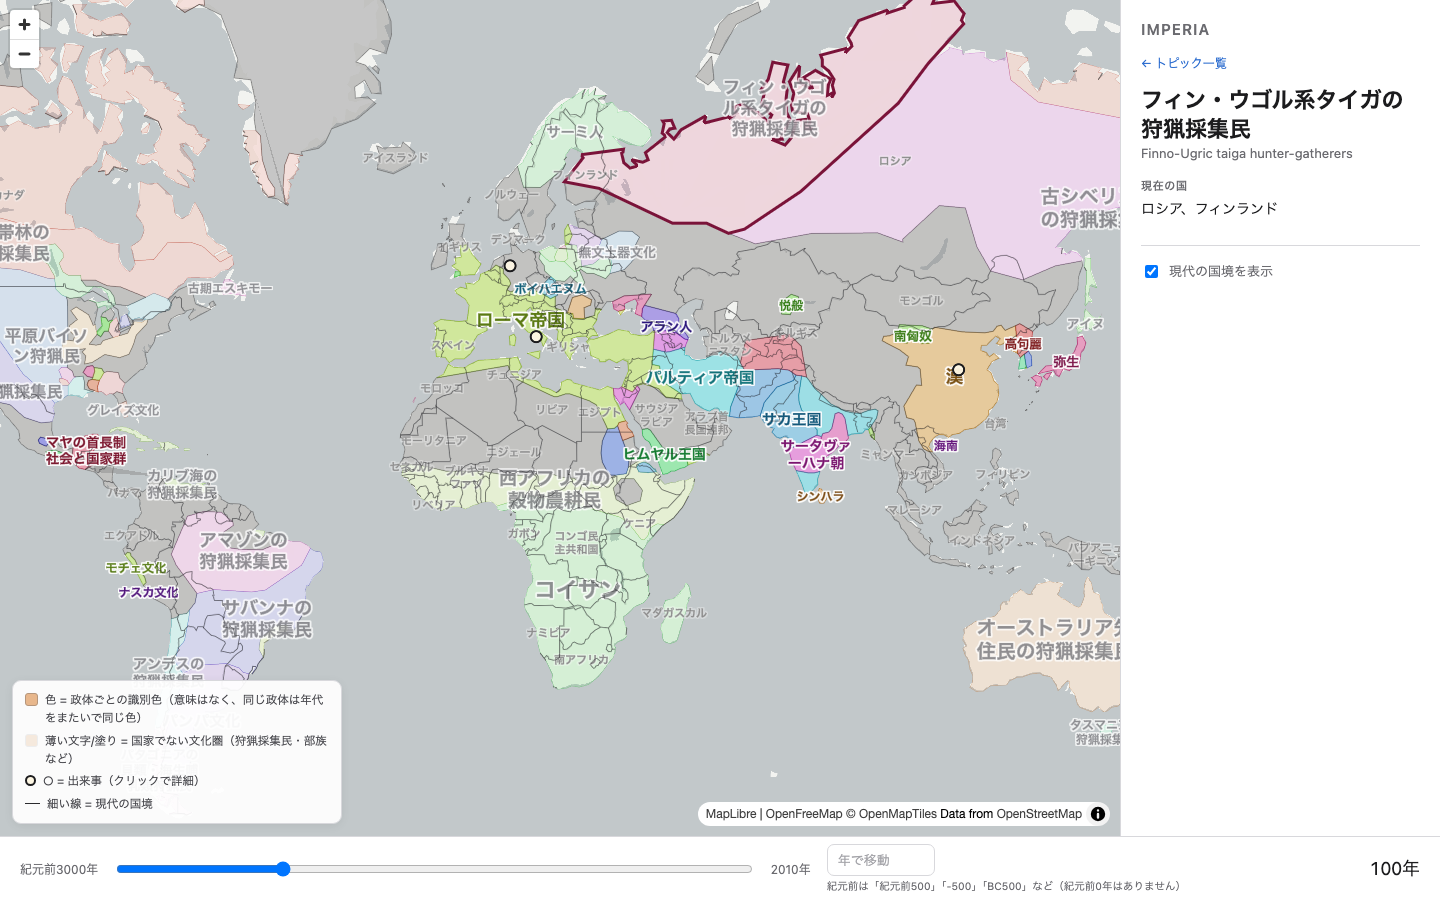
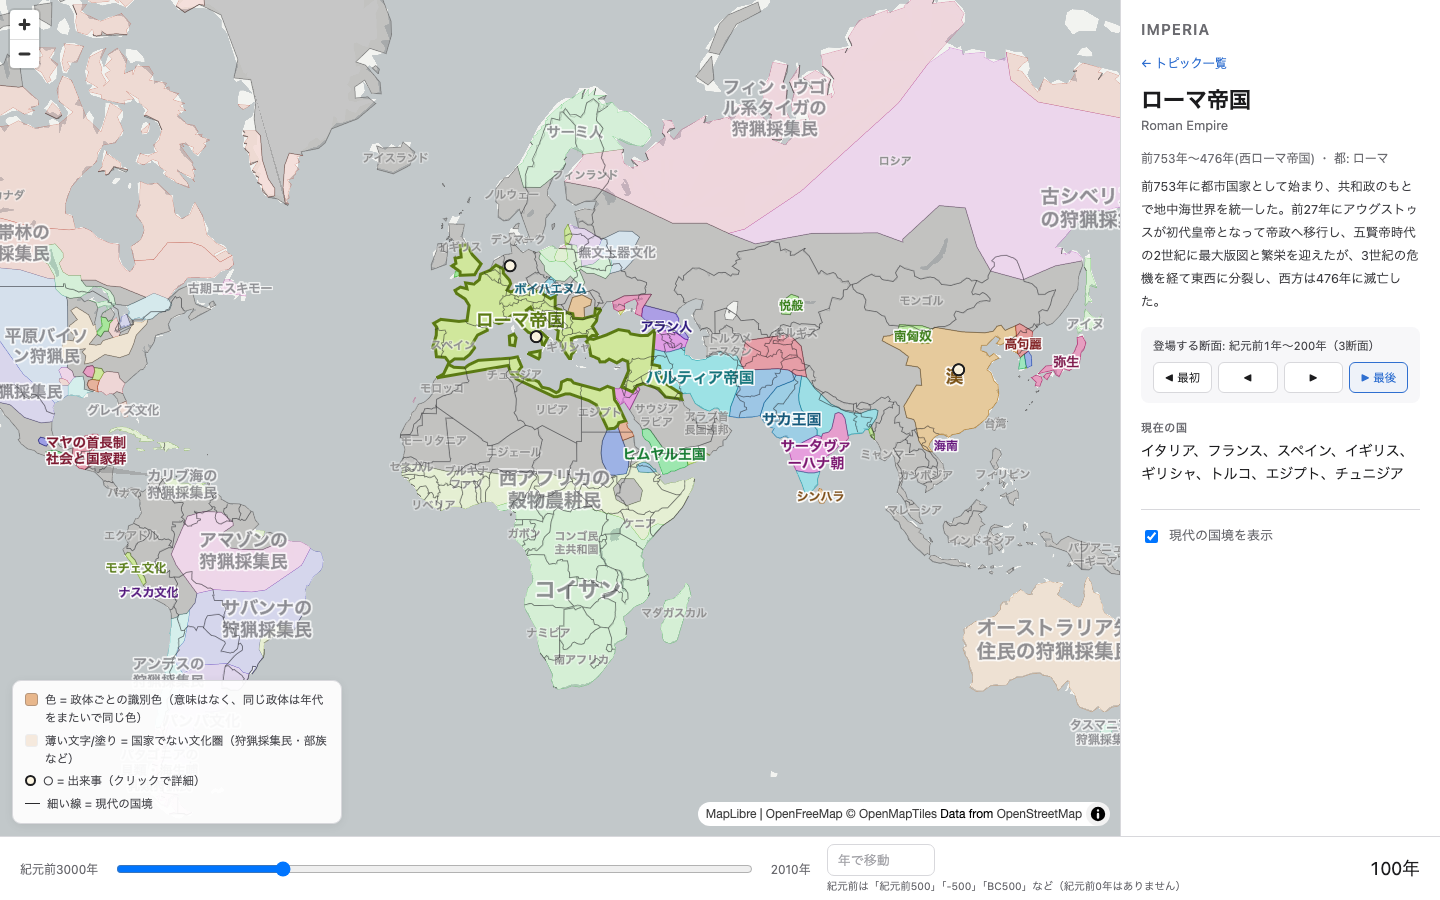
test: cover overviews, polity histories and era jumps
22 new node:test cases: overview coverage and length across all 48 eras,
single-paragraph Japanese with no English words, polity-info shape and
coverage of the majors, name-eras ordering and agreement with the era
files, and the era-jump model at both ends, from an absent era, and for
single-era polities. Screenshot assertions cover the overview sitting
above the topic list, and the Roman Empire panel's period, summary and
jump controls carrying the selection across an era change.

Fixes a real bug in the anachronism test's own regex, which is why it
never fired: /(?<!前)(\d{3,4})年/ matched "000" inside 「紀元前3000年」 —
preceded by 3, not 前 — and read it as year 0. It now requires the digits
not to follow another digit and takes the sign from an optional 前.
The same flaw was in topics.test.js, where it had been passing by luck.

Claude-Session: https://claude.ai/code/session_011jmUHQvJfLb2fnRPfpvuRt

diff --git a/test/overviews-polity.test.js b/test/overviews-polity.test.js
@@ -1,0 +1,234 @@
+import test from 'node:test';
+import assert from 'node:assert/strict';
+import { readFileSync } from 'node:fs';
+import { fileURLToPath } from 'node:url';
+import { dirname, join, resolve } from 'node:path';
+
+import { ERA_IDS, ERAS, formatYear, indexOfEra } from '../src/eras.js';
+import { buildEraJumpModel, buildPanelModel, renderTopics } from '../src/panel.js';
+
+const root = resolve(dirname(fileURLToPath(import.meta.url)), '..');
+const readJson = (p) => JSON.parse(readFileSync(join(root, p), 'utf8'));
+const overviews = readJson('data/overviews.json');
+const polityInfo = readJson('data/polity-info.json');
+const nameEras = readJson('data/name-eras.json');
+const len = (s) => Array.from(String(s)).length;
+
+// --- overviews ---
+
+test('overviews.json covers every era', () => {
+  for (const id of ERA_IDS) {
+    assert.equal(typeof overviews[id], 'string', `era ${id} has no overview`);
+  }
+  const stray = Object.keys(overviews).filter((k) => !ERA_IDS.includes(k));
+  assert.deepEqual(stray, []);
+});
+
+test('every overview is 150-350 characters', () => {
+  for (const id of ERA_IDS) {
+    const n = len(overviews[id]);
+    assert.ok(n >= 150 && n <= 350, `era ${id}: ${n} characters`);
+  }
+});
+
+test('overviews are single paragraphs of Japanese prose', () => {
+  for (const id of ERA_IDS) {
+    const t = overviews[id];
+    assert.ok(!t.includes('\n'), `era ${id} contains a newline`);
+    assert.match(t, /[ぁ-んァ-ヶ一-龯]/, `era ${id} has no Japanese`);
+    // 英単語（小文字を含む語）は不可。全大文字の略語(OPEC/WTO)は日本語文でも標準
+    const english = t.match(/[A-Za-z]*[a-z]{2,}[A-Za-z]*/);
+    assert.equal(english, null, `era ${id} contains an English word: ${english?.[0]}`);
+  }
+});
+
+test('overviews do not all open with the same phrase', () => {
+  const openings = ERA_IDS.map((id) => overviews[id].slice(0, 6));
+  assert.ok(new Set(openings).size > ERA_IDS.length * 0.6, 'overviews are too formulaic');
+});
+
+test('an overview does not cite a year far outside its era', () => {
+  const yearOf = Object.fromEntries(ERAS.map((e) => [e.id, e.year]));
+  const offenders = [];
+  for (const id of ERA_IDS) {
+    const t = overviews[id];
+    // 「紀元前3000年」は 前+3000。数字の途中から拾わないよう直前が数字でないことを要求する
+    const years = [...t.matchAll(/(?<![0-9])(前)?([0-9]{1,4})年/g)]
+      .map((m) => (m[1] ? -Number(m[2]) : Number(m[2])));
+    for (const y of years) {
+      if (Math.abs(y - yearOf[id]) > 60) offenders.push(`${id}(${yearOf[id]}) cites ${y}`);
+    }
+  }
+  assert.deepEqual(offenders, []);
+});
+
+// --- polity-info ---
+
+test('polity-info covers a useful number of polities and only real ones', () => {
+  const keys = Object.keys(polityInfo);
+  assert.ok(keys.length >= 200, `only ${keys.length} polities described`);
+  const unknown = keys.filter((k) => !(k in nameEras));
+  assert.deepEqual(unknown, [], 'every described polity must exist somewhere in the era data');
+});
+
+test('every polity entry has a summary and a period', () => {
+  const allowed = new Set(['summary_ja', 'period_ja', 'capital_ja', 'name_ja']);
+  for (const [k, v] of Object.entries(polityInfo)) {
+    assert.equal(typeof v.summary_ja, 'string', `${k}: summary_ja`);
+    assert.ok(len(v.summary_ja) >= 40 && len(v.summary_ja) <= 220, `${k}: summary is ${len(v.summary_ja)} chars`);
+    assert.equal(typeof v.period_ja, 'string', `${k}: period_ja`);
+    assert.ok(v.period_ja.trim(), `${k}: empty period`);
+    const stray = Object.keys(v).filter((x) => !allowed.has(x));
+    assert.deepEqual(stray, [], `${k}: unexpected fields`);
+    for (const opt of ['capital_ja', 'name_ja']) {
+      if (v[opt] !== undefined) assert.ok(typeof v[opt] === 'string' && v[opt].trim(), `${k}: ${opt}`);
+    }
+  }
+});
+
+test('polity summaries are Japanese, not English', () => {
+  for (const [k, v] of Object.entries(polityInfo)) {
+    const english = v.summary_ja.match(/[A-Za-z]*[a-z]{3,}[A-Za-z]*/);
+    assert.equal(english, null, `${k}: English in summary: ${english?.[0]}`);
+  }
+});
+
+test('the major polities are all described', () => {
+  const majors = [
+    'Roman Empire', 'Byzantine Empire', 'Achaemenid Empire', 'Sasanian Empire',
+    'Han', 'Qin', 'Tang Empire', 'Song Empire', 'Qing Empire', 'Mongol Empire',
+    'Ottoman Empire', 'Abbasid Caliphate', 'Mauryan Empire', 'Gupta Empire',
+    'Inca Empire', 'Aztec Empire', 'Holy Roman Empire', 'Carthage',
+  ];
+  const missing = majors.filter((m) => !(m in polityInfo));
+  assert.deepEqual(missing, []);
+});
+
+test('name_ja overrides do not contradict the era range they cover', () => {
+  // 「満洲帝国」は満洲国(1932-45)を指す語なので、清の断面には使わない
+  assert.equal(polityInfo['Manchu Empire'].name_ja, '清');
+  // 近代マケドニアは1994年以降の断面にしか出ない
+  assert.deepEqual(nameEras.Macedonia, ['1994', '2000', '2010']);
+  assert.equal(polityInfo.Macedonia.name_ja, '北マケドニア');
+});
+
+// --- name-eras ---
+
+test('name-eras lists every distinct NAME with eras in chronological order', () => {
+  const names = Object.keys(nameEras);
+  assert.equal(names.length, 2548);
+  for (const [name, eras] of Object.entries(nameEras)) {
+    assert.ok(Array.isArray(eras) && eras.length > 0, `${name}: no eras`);
+    assert.equal(new Set(eras).size, eras.length, `${name}: duplicate eras`);
+    const indexes = eras.map((e) => indexOfEra(e));
+    assert.ok(indexes.every((i) => i >= 0), `${name}: unknown era id`);
+    for (let i = 1; i < indexes.length; i += 1) {
+      assert.ok(indexes[i] > indexes[i - 1], `${name}: eras out of order`);
+    }
+  }
+});
+
+test('name-eras agrees with the era files for a sample', () => {
+  for (const id of ['bc3000', '100', '1492', '2010']) {
+    const era = readJson(`data/eras/${id}.geojson`);
+    const inFile = new Set(
+      era.features.map((f) => f.properties?.NAME)
+        .filter((n) => typeof n === 'string' && n.trim())
+        .map((n) => n.trim()),
+    );
+    for (const name of inFile) {
+      assert.ok(nameEras[name]?.includes(id), `${name} missing era ${id}`);
+    }
+  }
+});
+
+test('spelling drift is left unmerged, as documented', () => {
+  // 表記揺れは別政体として索引される。統合しないことを明示的に固定する
+  assert.ok(nameEras.Bantu, 'Bantu missing');
+  assert.ok(nameEras.Bantou, 'Bantou missing');
+  assert.notDeepEqual(nameEras.Bantu, nameEras.Bantou);
+});
+
+// --- era jump model ---
+
+const yearOfEra = (id) => ERAS[indexOfEra(id)]?.year ?? 0;
+
+test('buildEraJumpModel describes the span and neighbours', () => {
+  const m = buildEraJumpModel('Roman Empire', nameEras, '100', yearOfEra, formatYear);
+  assert.ok(m);
+  assert.equal(m.count, nameEras['Roman Empire'].length);
+  assert.equal(m.first, nameEras['Roman Empire'][0]);
+  assert.equal(m.last, nameEras['Roman Empire'].slice(-1)[0]);
+  assert.match(m.label, /断面）$/);
+});
+
+test('buildEraJumpModel marks the ends so the buttons can disable', () => {
+  const eras = { X: ['bc1', '100', '200'] };
+  const first = buildEraJumpModel('X', eras, 'bc1', yearOfEra, formatYear);
+  assert.equal(first.atFirst, true);
+  assert.equal(first.prev, null);
+  assert.equal(first.next, '100');
+
+  const last = buildEraJumpModel('X', eras, '200', yearOfEra, formatYear);
+  assert.equal(last.atLast, true);
+  assert.equal(last.next, null);
+  assert.equal(last.prev, '100');
+});
+
+test('buildEraJumpModel works from an era the polity is absent from', () => {
+  // 政体が居ない断面(300年)から見ても、前後の登場断面を出せること
+  const m = buildEraJumpModel('X', { X: ['bc1', '100'] }, '300', yearOfEra, formatYear);
+  assert.equal(m.prev, '100', 'previous appearance');
+  assert.equal(m.next, null, 'nothing later');
+  assert.equal(m.atFirst, false);
+  assert.equal(m.atLast, false);
+});
+
+test('buildEraJumpModel collapses a single-era polity', () => {
+  const m = buildEraJumpModel('X', { X: ['1492'] }, '1492', yearOfEra, formatYear);
+  assert.equal(m.count, 1);
+  assert.equal(m.rangeLabel, '1492年');
+  assert.equal(m.atFirst, true);
+  assert.equal(m.atLast, true);
+});
+
+test('buildEraJumpModel returns null when there is nothing to navigate', () => {
+  assert.equal(buildEraJumpModel(null, nameEras, '100', yearOfEra, formatYear), null);
+  assert.equal(buildEraJumpModel('Nowhere', {}, '100', yearOfEra, formatYear), null);
+});
+
+// --- panel integration ---
+
+test('buildPanelModel prefers a polity-info name override', () => {
+  const m = buildPanelModel({ NAME: 'Manchu Empire' }, {
+    namesJa: { 'Manchu Empire': '後金' },
+    polityInfo: { 'Manchu Empire': { name_ja: '清', summary_ja: 'x', period_ja: 'y' } },
+  });
+  assert.equal(m.nameJa, '清');
+  assert.equal(m.info.period_ja, 'y');
+});
+
+test('buildPanelModel falls back cleanly with no polity-info', () => {
+  const m = buildPanelModel({ NAME: 'Roman Empire' }, { namesJa: { 'Roman Empire': 'ローマ帝国' } });
+  assert.equal(m.nameJa, 'ローマ帝国');
+  assert.equal(m.info, null);
+});
+
+test('renderTopics puts the overview above the topic list', () => {
+  const el = { innerHTML: '', prepend() {} };
+  renderTopics(el, '100年', [
+    { title_ja: 'T', body_ja: 'B', wiki_url: 'https://ja.wikipedia.org/wiki/X' },
+  ], {}, 'この時代の概説テキスト');
+  assert.match(el.innerHTML, /この時代の世界/);
+  assert.match(el.innerHTML, /この時代の概説テキスト/);
+  assert.ok(
+    el.innerHTML.indexOf('概説テキスト') < el.innerHTML.indexOf('topics-list'),
+    'overview must come before the topic list',
+  );
+});
+
+test('renderTopics omits the overview block when there is none', () => {
+  const el = { innerHTML: '', prepend() {} };
+  renderTopics(el, '100年', [], {}, '');
+  assert.ok(!el.innerHTML.includes('この時代の世界'));
+});

diff --git a/test/topics.test.js b/test/topics.test.js
@@ -92,10 +92,9 @@ test('topic bodies do not mention a year far from their era', () => {
   for (const [id, list] of Object.entries(topics)) {
     for (const t of list) {
       const text = `${t.title_ja} ${t.body_ja}`;
-      const years = [
-        ...[...text.matchAll(/前(\d{1,4})年/g)].map((m) => -Number(m[1])),
-        ...[...text.matchAll(/(?<!前)(\d{3,4})年/g)].map((m) => Number(m[1])),
-      ];
+      // 「紀元前3000年」は 前+3000。数字の途中から拾わないよう直前が数字でないことを要求する
+      const years = [...text.matchAll(/(?<![0-9])(前)?([0-9]{1,4})年/g)]
+        .map((m) => (m[1] ? -Number(m[2]) : Number(m[2])));
       for (const y of years) {
         if (Math.abs(y - yearOf[id]) > 60) offenders.push(`${id}(${yearOf[id]}): ${y} in "${t.title_ja}"`);
       }
@@ -138,7 +137,8 @@ test('renderTopics lists every topic with its Japanese polity name', () => {
     { title_ja: '王莽', body_ja: '本文2', wiki_url: 'https://ja.wikipedia.org/wiki/Y' },
   ], { 'Roman Empire': 'ローマ帝国' });
   assert.equal(n, 2);
-  assert.match(el.innerHTML, /紀元前1年のトピック/);
+  assert.match(el.innerHTML, /紀元前1年/);
+  assert.match(el.innerHTML, /この時代のトピック/);
   assert.match(el.innerHTML, /アウグストゥス/);
   assert.match(el.innerHTML, /ローマ帝国/, 'polity shown in Japanese');
   assert.match(el.innerHTML, /data-polity="Roman Empire"/, 'raw NAME kept for map lookup');

diff --git a/README.md b/README.md
@@ -109,6 +109,40 @@ OpenMapTiles の地物は `name:ja` を持っているので、これで「Deuts
 > 元データには末尾に空白が付いた NAME (`"Pomeranian culture "`) が混ざっている。
 > 対訳表のキーは trim 済みなので、`decorateEra` で NAME を trim して正規化している。
 
+## この時代の世界（概説）
+
+`data/overviews.json` に48断面ぶんの 200〜300字の叙述を持たせている。トピック一覧の
+先頭、断面名の直下に出る。その年に「どの勢力が伸び、どこが傾き、地域どうしが
+どうつながっていたか」を地域横断で書いてある。
+
+## 政体の来歴
+
+`data/polity-info.json` に主要293政体の `{summary_ja, period_ja, capital_ja?, name_ja?}`。
+政体の詳細パネルで、名前と「現在の国」のあいだに出る。未登録の政体では
+この欄が丸ごと省かれるだけで、従来どおりの表示になる。
+
+`name_ja` は `names.ja.json` の訳を上書きする。断面の年代と矛盾する訳を直すための
+逃げ道で、例えば `Manchu Empire`（1650〜1914年の断面に登場）は「後金」（1616〜1636年の
+国号）ではなく「清」と表示する。
+
+## 登場する断面へ飛ぶ
+
+`scripts/build-name-eras.mjs` が `data/name-eras.json`（NAME → 登場する断面 ID の配列）を
+生成する。政体の詳細パネルに「登場する断面: 紀元前1年〜200年（3断面）」と出し、
+◀ 最初 / ◀ / ▶ / ▶ 最後 で断面を移動する。移動先にその政体が居れば選択と強調を
+持ち越し、居なければトピック一覧に戻る。
+
+```sh
+node scripts/build-name-eras.mjs   # data/eras/*.geojson を作り直したら再実行する
+```
+
+> **表記揺れは統合していない。** 元データには `Bantu` / `Bantou`、
+> `Saharan Pastoral Nomads` / `Saharan pastoral nomads`、
+> `United States` / `United States of America` のような別表記が混在する。
+> これらは別々の政体として索引されるので、「登場する断面」が実際の存続期間より
+> 短く出ることがある。機械的に名寄せすると実際には別物の政体まで束ねてしまうため、
+> あえて統合していない。
+
 ## 断面ごとのトピック
 
 `data/topics.json` に、48断面それぞれ 4〜7 件の「その年代に世界で何が起きていたか」を
@@ -174,6 +208,9 @@ data/modern.json              NAME → 現在の国（面積上位216件）
 data/nonstate.json            非国家判定の規則
 data/events.json              主要な出来事110件
 data/topics.json              断面ごとのトピック（48断面 × 4〜7件）
+data/overviews.json           断面ごとの概説（48断面 × 200〜300字）
+data/polity-info.json         政体の来歴（293件）
+data/name-eras.json           NAME → 登場する断面（生成物）
 src/nonstate.js               非国家判定
 src/labelpoint.js             政体名ラベルの代表点計算
 src/events.js                 断面に対応する出来事の選別

diff --git a/docs/superpowers/specs/2026-08-23-imperia-design.md b/docs/superpowers/specs/2026-08-23-imperia-design.md
@@ -42,6 +42,20 @@
 - 手書き。まず主要政体（ローマ、ペルシア、漢、モンゴル等）から埋め、未登録は「（未登録）」と表示
 - 版図ポリゴンと現代国境の空間交差から自動生成する案は精度が低い（にじんだ境界×粗い国境）ため採らない。ただし下書き生成には使ってよい
 
+### 断面ごとの概説 `data/overviews.json`
+- 各断面 200〜300字の叙述「この時代の世界」。トピック一覧の先頭に出す
+- どの勢力が伸び/傾き、地域どうしがどうつながっていたかを地域横断で書く
+
+### 政体の来歴 `data/polity-info.json`
+- 主要政体の `{summary_ja (起こり→最盛期→衰亡), period_ja, capital_ja?, name_ja?}`
+- 政体パネルの名前と「現在の国」のあいだに出す。未登録なら欄ごと省く
+
+### 登場する断面 `data/name-eras.json`
+- `scripts/build-name-eras.mjs` が生成。NAME → 登場する断面 ID の配列
+- 政体パネルに「登場する断面: 前1年〜200年（3断面）」と出し、最初/前/次/最後で移動する
+- 移動先にその政体が居れば選択を持ち越す
+- **表記揺れ（Bantu/Bantou 等）は統合しない。** 機械的な名寄せは別物の政体まで束ねるため
+
 ### 断面ごとのトピック `data/topics.json`
 - 各断面に 4〜7 件。その年代に世界で何が起きていたかを地域横断で並べる
 - 形式: `{title_ja (30字以内), body_ja (120字以内), polity (その断面の NAME・任意), wiki_url}`
